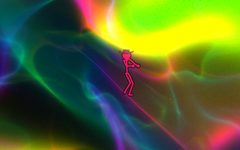
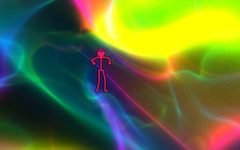
Dancers: a head that turns on its own, partners in the crowd, and a kind of dancing that suits the music
The head is drawn turned by the chest's facing plus a turn of its own: it looks ahead, to one side, or at
whoever is nearest, a figure with a partner looks at the partner, and it lags a body that is spinning.

In the crowd, every so often two neighbours dance together for 8 to 16 beats: they come round to face
each other, and the second does the first's move as in a mirror.

Each kind of dancing has a speed and a fullness of music it suits (DN_FIT). A figure left free keeps most
routines to a kind that suits the music now, and Journey weighs the kinds the same way when it chooses.

Claude-Session: https://claude.ai/code/session_01P6VPR9y6rGkpLBNy8xwDmE

diff --git a/js/dance.js b/js/dance.js
@@ -49,7 +49,7 @@ export const DN_DRIFT=0.3;   /* how fast a dancing figure moves over the floor t
 export const dnU=[new Float32Array(48),new Float32Array(48),new Float32Array(48),new Float32Array(48),new Float32Array(48),new Float32Array(48),new Float32Array(48),new Float32Array(48),new Float32Array(48),new Float32Array(48)]; /* for the shader, four numbers a figure in each (the tenth is its head: the angle it is turned by, and its face, which danceFill packs into the other three): neck and hips; the shoulders; left elbow and hand; right elbow and hand; the hip joints; left knee and ankle; right knee and ankle; the toes; the head's middle, its radius and how brightly the figure shows (0 for none) */
 const A=new Array(MV_N),B=new Array(MV_N),J=new Array(MV_N),flat=new Array(35),SP=[0,0],RM=[0,0,0,0],order=[];
 const crowd=[];              /* the figures: {rt, ri, mv, mir, u0, pmv, pmir, pu0, bl, next, tx, tz, p, b, mem, fa, sp, pfa, a, im, ic, idir, iface, itf, iph, iw}: the routine and how far through it; the move, whether it is faced the other way and the beat it began on; the same for the move before, and how far the figure has gone over from it; the beat to change on; how far the figure has travelled from its place; the pose; the body; where the elbows were; which way it is turned for this move and was for the last; how much it is dancing; and for when it is not, whether it walks, the seconds until it chooses again, which way it walks, the way it faces now and wants to, how far through its steps it is and how much it is walking */
-const st={lead:-1,per:0.5,pk:0.06,pm:0.06,amp:0,asp:1.78,u:0,du:0,pa:0,sure:0,kick:0,snap:0,en:0,hype:0,jump:-1,kind:0,phrase:0}; /* the strongest pulse of the bass and of the mids in the last few seconds; how much the figures are dancing, 0 to 1 (figures newly set up begin with it, so that changing from one overlay of figures to another does not stop the dance); how wide the picture is for 1 tall (danceFill says); the count of beats and this frame's step of it; how much pulse there has been lately; how sure the beat is; the kick as the figures feel it; how much they dance; how long since a drop; how far through a jump (in beats, -1 for none); which overlay they were set up for; how many times the chorus line has changed its dance */
+const st={pairC:8,lvl:0.6,lead:-1,per:0.5,pk:0.06,pm:0.06,amp:0,asp:1.78,u:0,du:0,pa:0,sure:0,kick:0,snap:0,en:0,hype:0,jump:-1,kind:0,phrase:0}; /* the strongest pulse of the bass and of the mids in the last few seconds; how much the figures are dancing, 0 to 1 (figures newly set up begin with it, so that changing from one overlay of figures to another does not stop the dance); how wide the picture is for 1 tall (danceFill says); the count of beats and this frame's step of it; how much pulse there has been lately; how sure the beat is; the kick as the figures feel it; how much they dance; how long since a drop; how far through a jump (in beats, -1 for none); which overlay they were set up for; how many times the chorus line has changed its dance */
 let tick=null,bank=null;
 
 function ease(x){x=Math.max(0,Math.min(1,x));return x*x*(3-2*x);}
@@ -309,6 +309,27 @@ export function makeRoutine(e,rnd,style){
 /* The kind of dancing the figures keep to: a name in MV_STYLES, or "any". Changing it gives every figure a new routine
    at its next move. */
 export let danceStyle="any";
+/* Which kind of dancing suits the music: for each kind, the speed it likes (-1 for a slow beat, about 100 a minute
+   and under, to 1 for a fast one, 150 and over) and how full it likes the music (0 to 1). styleFit gives a kind's
+   chance for a beat lasting per seconds in music level full: about 3 where both suit it, down to 0.3 where neither
+   does. So a fast, full passage brings out the rave and the breaking, and a slow quiet one the groove. */
+export const DN_FIT={groove:[-0.3,0.3],disco:[0,0.5],sixties:[0.2,0.6],hiphop:[-0.4,0.6],party:[0,0.6],world:[-0.2,0.4],rave:[1,0.9],breaking:[0.4,0.9],indian:[0.2,0.6]};
+export function styleFit(name,per,level){
+  var f=DN_FIT[name],t=Math.max(-1,Math.min(1,(0.52-per)/0.14));
+  return f?0.3+3*Math.exp(-((t-f[0])*(t-f[0])/0.5+(level-f[1])*(level-f[1])/0.18)):1;
+}
+/* the same for the music as it is now, for Journey when it chooses a kind; 1 for every kind while there is no sure beat */
+export function danceFit(name){return st.sure>0.5?styleFit(name,st.per,st.lvl):1;}
+/* The kind a new routine keeps to: the one that has been asked for; or, left free, most often a kind that suits the
+   music now (chosen by styleFit), and otherwise any, so that a figure still mixes kinds some of the time. */
+function routineStyle(){
+  var ks,i,t=0,r;
+  if(danceStyle!=="any")return danceStyle;
+  if(st.sure<0.5||Math.random()<0.35)return "";
+  ks=Object.keys(MV_STYLES);for(i=0;i<ks.length;i++)t+=styleFit(ks[i],st.per,st.lvl);
+  r=Math.random()*t;for(i=0;i<ks.length;i++){r-=styleFit(ks[i],st.per,st.lvl);if(r<0)return ks[i];}
+  return "";
+}
 export function setDanceStyle(s){
   s=MV_STYLES[s]?s:"any";if(s===danceStyle)return;
   danceStyle=s;for(var i=0;i<crowd.length;i++)crowd[i].fresh=true;
@@ -452,11 +473,11 @@ function homes(kind,n){
 }
 function setUp(kind){
   var i,n=count(kind),now=Math.floor(st.u),r,h=homes(kind,n),d,c0=Math.floor(3*Math.random()),l0=Math.floor(DN_LOOKS*Math.random()),ch;
-  crowd.length=0;st.kind=kind;st.phrase=0;
+  crowd.length=0;st.kind=kind;st.phrase=0;st.pairC=6+8*Math.random();
   for(i=0;i<n;i++){
     ch=DN_MANNERS[kind===2?0:(i+c0)%3]; /* a third of a crowd each way, and the dancer alone any of the three */
-    r=kind===2&&i?crowd[0].rt:makeRoutine(st.en*ch.en,Math.random,danceStyle);
-    d={ch:ch,sd:Math.random()<0.5?-1:1,mo:0,bk:0,ex:pickFace(ch,Math.random()),et:3+7*Math.random(),fw:0.34,fc:0.5,fl:0,fh:0,fo:0,rel:[0,0,0,0,0,0,0,0,0,0,0,0],dw:0,go:false,a:st.amp,g:1,ph:0,gp:0,as:1,wx:0,wz:0,vx:0,vz:0,fa:kind===2?0:(Math.random()-0.5)*1.6,sp:0,pfa:0,im:0,ic:3*Math.random(),ix:0,iz:0,iface:0,itf:(Math.random()-0.5)*3,iph:0,iw:0,
+    r=kind===2&&i?crowd[0].rt:makeRoutine(st.en*ch.en,Math.random,routineStyle());
+    d={ch:ch,pw:-1,pu:0,hy:0,hk:0,hyR:0,hyc:2*Math.random(),pch:0,wv:0,sd:Math.random()<0.5?-1:1,mo:0,bk:0,ex:pickFace(ch,Math.random()),et:3+7*Math.random(),fw:0.34,fc:0.5,fl:0,fh:0,fo:0,rel:[0,0,0,0,0,0,0,0,0,0,0,0],dw:0,go:false,a:st.amp,g:1,ph:0,gp:0,as:1,wx:0,wz:0,vx:0,vz:0,fa:kind===2?0:(Math.random()-0.5)*1.6,sp:0,pfa:0,im:0,ic:3*Math.random(),ix:0,iz:0,iface:0,itf:(Math.random()-0.5)*3,iph:0,iw:0,
       hf:h[i][0],hz:h[i][1],hc:h[i][2],id:(3*i+l0)%DN_LOOKS+DN_LOOKS*i, /* its number says which head it has (what is left over on dividing by DN_LOOKS: neighbours differ) and gives it a colour of its own */
       rt:r,ri:0,mv:r.mv[0],mir:kind!==2&&r.mir[0],u0:now,pmv:0,pmir:false,pu0:now,bl:1,next:now+4+(kind===3?i%5:0),tx:0,tz:0,p:MV_REST.slice(),b:danceBody(MV_REST,[]),mem:[0,0,0,0,0,0]};
     if(kind===3){d.hf+=(Math.random()-0.5)*0.25;d.hz+=(Math.random()-0.5)*0.5;} /* a crowd does not stand in ranks */
@@ -471,10 +492,15 @@ function setUp(kind){
 function nextMove(d,i,now,e,fresh){
   var n,k,m;
   d.pmv=d.mv;d.pmir=d.mir;d.pu0=d.u0;d.u0=now;d.bl=0;d.pfa=d.fa;
+  if(d.pw>=0&&d.pw<i&&crowd[d.pw]&&crowd[d.pw].pw===i){ /* dancing with a partner: the second of the two takes the first's move, turned the other way, as in a mirror */
+    k=crowd[d.pw];d.rt=k.rt;d.ri=k.ri;d.mv=k.mv;d.mir=!k.mir;d.next=k.next;d.g=k.g;d.ph=k.ph;d.gp=k.gp;d.as=k.as;d.go=k.go;d.sp=0;
+    spot(d,front(st.kind,st.asp),false,SP);d.wx=d.tx;d.wz=d.tz;
+    return;
+  }
   if(st.kind===2&&i>0){d.rt=crowd[0].rt;d.ri=crowd[0].ri;}
   else{
     d.ri++;n=d.rt.mv.length;
-    if(fresh||d.ri>=2*n||(d.ri%n===0&&moveTier(e*d.ch.en)!==d.rt.tier)){d.rt=makeRoutine(e*d.ch.en,Math.random,danceStyle);d.ri=0;}
+    if(fresh||d.ri>=2*n||(d.ri%n===0&&moveTier(e*d.ch.en)!==d.rt.tier)){d.rt=makeRoutine(e*d.ch.en,Math.random,routineStyle());d.ri=0;}
     if(st.kind===2&&d.ri%d.rt.mv.length===0)st.phrase++;
   }
   k=d.ri%d.rt.mv.length;d.mv=d.rt.mv[k];m=MOVES[d.mv];
@@ -519,6 +545,21 @@ export function danceStep(dt,bt,mp,level,drop,changed,slow,time,real,on){
   if(st.jump>=0){st.jump+=du;if(st.jump>DN_JUMP)st.jump=-1;}
   st.snap+=(mp-st.snap)*Math.min(1,dt*(mp>st.snap?30:9)); /* and the mids, which the arms flick to */
   beat=0.3*(0.5+0.5*Math.cos(6.2831853*st.u))+2.4*st.kick; /* how far into the beat's give the figures are: a little by the count, mostly by the kick itself */
+  st.lvl=level;
+  /* In a crowd, every so often two who stand near each other dance together for eight to sixteen beats: they turn to
+     face each other, and from the next move the second does what the first does, as in a mirror. */
+  if(st.kind===3&&amp>0.6){
+    st.pairC-=dt;
+    if(st.pairC<=0){
+      st.pairC=3;i=Math.floor(Math.random()*crowd.length);d=crowd[i];k=-1;w=1.7;
+      if(d&&d.pw<0&&d.a>0.9)for(j=0;j<crowd.length;j++)if(j!==i&&crowd[j].pw<0&&crowd[j].a>0.9){v=Math.hypot(homeX(crowd[j],F)+crowd[j].tx-homeX(d,F)-d.tx,crowd[j].hz+crowd[j].tz-d.hz-d.tz);if(v<w){w=v;k=j;}}
+      if(k>=0){
+        j=Math.min(i,k);k=Math.max(i,k);v=now+8+4*Math.floor(3*Math.random());
+        crowd[j].pw=k;crowd[k].pw=j;crowd[j].pu=crowd[k].pu=v;crowd[k].next=crowd[j].next;
+        st.pairC=10+14*Math.random();
+      }
+    }
+  }
   for(i=0;i<crowd.length;i++){
     d=crowd[i];
     /* the next move of the routine when the one in hand has had its beats (four at least), a new routine at once after
@@ -529,7 +570,10 @@ export function danceStep(dt,bt,mp,level,drop,changed,slow,time,real,on){
     m=MOVES[d.mv];
     movePose(m,st.u-d.u0,A);A[2]+=moveBob(m)*beat*d.ch.bob;A[9]+=1.5*moveBob(m)*st.kick*d.ch.bob;A[11]+=6*moveBob(m)*st.kick*d.ch.bob;
     if(d.mir)flipPose(A);
-    if(st.kind===2&&i>0)d.fa=crowd[0].fa;else if(d.go)d.fa-=Math.max(-1.2*du,Math.min(1.2*du,d.fa));else d.fa+=d.sp*du*d.a;
+    if(d.pw>=0&&(st.u>=d.pu||amp<0.3||!crowd[d.pw]||crowd[d.pw].pw!==i)){d.pw=-1;d.fresh=true;} /* the dance together is over: each goes back to a routine of its own */
+    if(st.kind===2&&i>0)d.fa=crowd[0].fa;
+    else if(d.pw>=0){k=crowd[d.pw];w=turnTo(d.fa,Math.atan2(homeX(k,F)+k.tx-homeX(d,F)-d.tx,d.hz+d.tz-k.hz-k.tz)-A[4]);d.fa+=Math.max(-1.2*du,Math.min(1.2*du,w));} /* it comes round to face its partner */
+    else if(d.go)d.fa-=Math.max(-1.2*du,Math.min(1.2*du,d.fa));else d.fa+=d.sp*du*d.a;
     A[4]+=d.fa;
     groove(A,st.u,d,st.kick,st.snap);
     if(d.bl<1){
@@ -584,6 +628,21 @@ export function danceStep(dt,bt,mp,level,drop,changed,slow,time,real,on){
     /* the face: the mouth opens with the kick, the more the livelier the figure, and the eyes shut for a moment every few seconds */
     w=Math.min(1,st.kick*1.6)*d.a*Math.min(1,0.25+0.6*d.ch.bob);d.mo+=(w-d.mo)*Math.min(1,dt*(w>d.mo?20:6));
     w=time*0.21+0.37*d.id;w=w-Math.floor(w)<0.035?1:0;d.bk+=(w-d.bk)*Math.min(1,dt*25);
+    /* The head's own turn on the neck (d.hy, which the shader adds to the way the chest faces). Every few seconds it
+       chooses again: straight ahead half the time, off to one side, or at whoever is nearest; a figure with a
+       partner looks at the partner. And the head lags a little behind a body that is turning, as a spinning
+       dancer's does. It is gone toward at five a second, so it never snaps. */
+    w=d.p[4]+d.p[5]+d.p[7];v=dt>0?turnTo(d.pch,w)/dt:0;d.pch=w;d.wv+=(v-d.wv)*Math.min(1,dt*6);
+    d.hyc-=dt;
+    if(d.hyc<=0){d.hyc=1.5+4*Math.random();v=Math.random();d.hk=v<0.5?0:v<0.75?1:2;d.hyR=(Math.random()-0.5)*1.4;}
+    v=0;
+    if(d.pw>=0||d.hk===2){
+      k=d.pw>=0?crowd[d.pw]:null;
+      if(!k){n=1e9;for(j=0;j<crowd.length;j++)if(j!==i){dx=homeX(crowd[j],F)+crowd[j].tx-homeX(d,F)-d.tx;dz=crowd[j].hz+crowd[j].tz-d.hz-d.tz;if(dx*dx+dz*dz<n){n=dx*dx+dz*dz;k=crowd[j];}}}
+      if(k)v=Math.max(-1.1,Math.min(1.1,turnTo(w,Math.atan2(homeX(k,F)+k.tx-homeX(d,F)-d.tx,d.hz+d.tz-k.hz-k.tz))));
+    }else if(d.hk===1)v=d.hyR;
+    v+=Math.max(-0.5,Math.min(0.5,-0.15*d.wv));
+    d.hy+=(v*d.a-d.hy)*Math.min(1,dt*5);
     /* and the face it is making: a new one every few seconds, gone over to in about a third of a second */
     d.et-=dt;if(d.et<=0){d.ex=pickFace(d.ch,Math.random());d.et=4+8*Math.random();}
     m=DN_FACES[d.ex];k=Math.min(1,dt*5);
@@ -630,10 +689,10 @@ export function danceFill(kind,asp){
     d=order[i];place(F,homeX(d,F)+d.tx,d.hz+d.tz,q);danceFlat(d.b,flat);
     k=q[0];
     for(j=0;j<16;j++){dnU[j>>1][4*i+2*(j&1)]=k+q[2]*flat[2*j];dnU[j>>1][4*i+2*(j&1)+1]=q[1]+q[2]*flat[2*j+1];}
-    /* the head: the angle the chest faces by, which the head is drawn turned by; then the face, two numbers to one
+    /* the head: the angle the chest faces by and the head's own turn on it, which the head is drawn turned by; then the face, two numbers to one
        (the first in 255 steps as the whole part, the second as what is over): how far the mouth is open and the
        lids are down; the mouth's half width (twice it) and how far its corners turn up; and how far the eyes are arches */
-    j=d.p[4]+d.p[5]+d.p[7];dnU[9][4*i]=j-6.2831853*Math.round(j/6.2831853);
+    j=d.p[4]+d.p[5]+d.p[7]+d.hy;dnU[9][4*i]=j-6.2831853*Math.round(j/6.2831853);
     dnU[9][4*i+1]=Math.floor(255*Math.max(0,Math.min(1,d.fo)))+Math.min(0.99,Math.max(d.fl,d.bk)*(1-d.fh));
     dnU[9][4*i+2]=Math.floor(255*Math.max(0,Math.min(1,2*d.fw)))+Math.max(0,Math.min(0.99,d.fc));dnU[9][4*i+3]=d.fh;
     dnU[8][4*i]=k+q[2]*flat[32];dnU[8][4*i+1]=q[1]+q[2]*flat[33];dnU[8][4*i+2]=q[2]*DN_HEAD*flat[34];dnU[8][4*i+3]=d.id+0.5*q[3];
@@ -647,5 +706,5 @@ tick=makeBeatClock();bank=makeBeatBank();
 }
 
 /* for the test tools and the browser console: every name in this file; the ones that can change have a getter and a setter */
-export const __dbg={DN_MAX, DN_MANNERS, DN_LOOKS, DN_FACES, pickFace, DN_HIP, DN_SPINE, DN_HEAD, DN_NECK, DN_SHO, DN_HIPW, DN_ARM, DN_FORE, DN_CLEAR, DN_BACK, DN_LEG, DN_FOOT, DN_STANCE, DN_NEAR, DN_EYE, DN_FAST, DN_SLOW, DN_SIZE, DN_DEEP, DN_UP, DN_FLOOR, DN_DRIFT, DN_FAINT, DN_RATE, DN_SURE0, DN_SURE1, DN_FAINT2, makeBeatBank, get danceBank(){return bank},set danceBank(v){bank=v}, danceSays, DN_QUICK, DN_TOP, DN_JUMP, DN_STEP, DN_WALK, DN_TURN, dnU, danceBody, danceFlat, makeBeatClock, pickMove, moveTier, makeRoutine, setDanceStyle, get danceStyle(){return danceStyle},
+export const __dbg={DN_FIT, styleFit, danceFit, DN_MAX, DN_MANNERS, DN_LOOKS, DN_FACES, pickFace, DN_HIP, DN_SPINE, DN_HEAD, DN_NECK, DN_SHO, DN_HIPW, DN_ARM, DN_FORE, DN_CLEAR, DN_BACK, DN_LEG, DN_FOOT, DN_STANCE, DN_NEAR, DN_EYE, DN_FAST, DN_SLOW, DN_SIZE, DN_DEEP, DN_UP, DN_FLOOR, DN_DRIFT, DN_FAINT, DN_RATE, DN_SURE0, DN_SURE1, DN_FAINT2, makeBeatBank, get danceBank(){return bank},set danceBank(v){bank=v}, danceSays, DN_QUICK, DN_TOP, DN_JUMP, DN_STEP, DN_WALK, DN_TURN, dnU, danceBody, danceFlat, makeBeatClock, pickMove, moveTier, makeRoutine, setDanceStyle, get danceStyle(){return danceStyle},
   danceKind, danceStep, stepDance, danceSpots, danceFill, crowd, danceSt:st, get danceTick(){return tick},set danceTick(v){tick=v}};

diff --git a/js/journey.js b/js/journey.js
@@ -1,5 +1,5 @@
 /* Journey: templates and sets, their storage, the clocks that say when to change something, and the autopilot. */
-import { danceStyle, setDanceStyle } from "./dance.js";
+import { danceFit, danceStyle, setDanceStyle } from "./dance.js";
 import { MV_STYLES } from "./moves.js";
 import { cam, norm } from "./camera.js";
 import { requestWorld, scene, selJT, setLook, setMirrors, setMotion, setOverlay, setInside, setMix, setPacking, setPulse } from "./choose.js";
@@ -123,7 +123,7 @@ export function jPick(k,cfg,cur,pool,not){
   if(!others.length)return pool[0];
   if(not){fresh=others.filter(function(x){return x!==not});if(fresh.length)others=fresh;} /* not is passed over if there is anything else: the world just left */
   return pickWeighted(others,liked,Math.random()); /* an even chance each, unless More like this or Less like this has said otherwise, or the option is one Journey reaches for less (J_SELDOM) */
-  function liked(x){return tasteOf(taste,k,x)*(J_SELDOM[k]&&J_SELDOM[k][x]||1)}
+  function liked(x){return tasteOf(taste,k,x)*(J_SELDOM[k]&&J_SELDOM[k][x]||1)*(k==="dance"?danceFit(x):1)} /* and a kind of dancing by how well it suits the music now (js/dance.js) */
 }
 /* More like this: everything Journey is choosing that is showing now becomes more likely to be chosen again. */
 export function jMore(){

diff --git a/CLAUDE.md b/CLAUDE.md
@@ -84,7 +84,7 @@ The Python tools need `google-chrome` or `chromium` on PATH, or a Chromium that 
 - **Every sampler in the scene shader must be given a texture unit every frame.** One left at the default, unit 0, can name the picture being drawn into, and the chip then refuses the draw.
 - **Hold still averages frames of a scene that must not change.** While `stillN` is not zero the scene shader gets no sound and no clock runs. Anything new that changes the scene from frame to frame must either stop while `still` is true or be added to what `stillAim` compares.
 - **User look input goes through `userLook(dx, dy)`**, not straight into `lookX`/`lookY`. That is how the autopilot knows to stand back while the user steers. The autopilot itself still writes `lookX`/`lookY` directly.
-- **The dancers' joints are worked out in JavaScript (`js/dance.js`) and only drawn by the trails shader.** A move (`js/moves.js`) is a list of poses at given beats; a pose is 28 numbers that give hands and feet as places, sides measured outward, and `danceBody` makes a body in space from it with every bone keeping its length. A move with no `hold` flows through its keys without stopping; give it a `hold` only if it should stop on the beat. The knees' give comes from the bass itself (`st.kick`), not from the move. A new move must begin at beat 0, take 1, 2, 4, 8 or 16 beats, name its poses only by what differs from standing, and show from in front: a limb moved straight toward the viewer hardly shows, so send it to the side as well. Look at it as a row of poses before keeping it. A figure's pose is only ever gone toward (the end of the loop in `danceStep`), never set, a move is never changed while the last change is still crossing over, and elbows swing through `mem`: `tools/unit.mjs` holds every joint under seven figure heights a second. The figures stand on a floor that goes away from the viewer (`place`): nothing may come nearer than its front edge, and `danceFill` hands them to the shader furthest first, which draws each over the ones before. The shader's arrays and loop are written for `DN_MAX` (12) figures, 120 uniform vectors (ten to a figure: the tenth is the face); change the three together. A figure keeps a manner (`DN_MANNERS`: steady, lively, or smooth, which glides and spins) for as long as it is on the floor, and its number (`d.id`) tells the shader which of `DN_LOOKS` heads it has; the head's hair, hat and face are drawn only by the shader, in the head's own frame, and fade out on a head a few dots across. Nothing on a head is placed on the picture: what lies on the head (hair over the scalp, a fringe, a band, the face) is said in the head's own frame (`H` for the shell of hair, `F` for the face: across, up, toward the way it looks), and what stands off it is placed by the sine and cosine of `uD9.x` and put in `dq` while it is behind the head. After changing a head, run `python3 tools/heads.py out` and `python3 tools/heads.py out 0.4` and look at every head at all eight turns, large: the face and the hair's edge must keep their places against each other, nothing on the far side may show through the head, and nothing may lie over the eyes. Do not judge a head from a render of the whole app: it is too small there, and a new face is a row in `DN_FACES`, eased to number by number, never switched. Journey chooses the chorus line seldom (`J_SELDOM` in `js/journey.js`). The figures dance only while the beat is `sure`: four clocks (`makeBeatBank`), each on one part of the spectrum's onsets from `listen.js`, because the beat is as often in the hi-hats as in the bass; do not go back to judging the bass's hits one at a time. Any change to the clock must keep the rhythm tests in `tools/unit.mjs`; otherwise they wait or walk (`idle`), and anything new they do without a beat belongs there, turning no faster than `DN_TURN`. The moves are chosen by chance, so the figures stop under Hold still and are left out while `lapOn()`.
+- **The dancers' joints are worked out in JavaScript (`js/dance.js`) and only drawn by the trails shader.** A move (`js/moves.js`) is a list of poses at given beats; a pose is 28 numbers that give hands and feet as places, sides measured outward, and `danceBody` makes a body in space from it with every bone keeping its length. A move with no `hold` flows through its keys without stopping; give it a `hold` only if it should stop on the beat. The knees' give comes from the bass itself (`st.kick`), not from the move. A new move must begin at beat 0, take 1, 2, 4, 8 or 16 beats, name its poses only by what differs from standing, and show from in front: a limb moved straight toward the viewer hardly shows, so send it to the side as well. Look at it as a row of poses before keeping it. A figure's pose is only ever gone toward (the end of the loop in `danceStep`), never set, a move is never changed while the last change is still crossing over, and elbows swing through `mem`: `tools/unit.mjs` holds every joint under seven figure heights a second. The figures stand on a floor that goes away from the viewer (`place`): nothing may come nearer than its front edge, and `danceFill` hands them to the shader furthest first, which draws each over the ones before. The shader's arrays and loop are written for `DN_MAX` (12) figures, 120 uniform vectors (ten to a figure: the tenth is the face); change the three together. A figure keeps a manner (`DN_MANNERS`: steady, lively, or smooth, which glides and spins) for as long as it is on the floor, and its number (`d.id`) tells the shader which of `DN_LOOKS` heads it has; the head's hair, hat and face are drawn only by the shader, in the head's own frame, and fade out on a head a few dots across. Nothing on a head is placed on the picture: what lies on the head (hair over the scalp, a fringe, a band, the face) is said in the head's own frame (`H` for the shell of hair, `F` for the face: across, up, toward the way it looks), and what stands off it is placed by the sine and cosine of `uD9.x` and put in `dq` while it is behind the head. After changing a head, run `python3 tools/heads.py out` and `python3 tools/heads.py out 0.4` and look at every head at all eight turns, large: the face and the hair's edge must keep their places against each other, nothing on the far side may show through the head, and nothing may lie over the eyes. Do not judge a head from a render of the whole app: it is too small there, and a new face is a row in `DN_FACES`, eased to number by number, never switched. Journey chooses the chorus line seldom (`J_SELDOM` in `js/journey.js`). A figure's head has a turn of its own (`d.hy`, eased, never set); two of a crowd may be partners (`d.pw`, each the other's, the later in the list following the earlier in `nextMove`); and a new kind of dancing in `MV_STYLES` needs its row in `DN_FIT`, which `tools/unit.mjs` checks. The figures dance only while the beat is `sure`: four clocks (`makeBeatBank`), each on one part of the spectrum's onsets from `listen.js`, because the beat is as often in the hi-hats as in the bass; do not go back to judging the bass's hits one at a time. Any change to the clock must keep the rhythm tests in `tools/unit.mjs`; otherwise they wait or walk (`idle`), and anything new they do without a beat belongs there, turning no faster than `DN_TURN`. The moves are chosen by chance, so the figures stop under Hold still and are left out while `lapOn()`.
 - **The eye (`js/eye.js`) is the last pass, over the finished picture, and nothing is drawn after it or over it.** The world, the land, the overlays and the filters show only in its pupil: a new effect belongs in the passes before it, never in `FS_EYE`. What changes in it over time comes from `clock` and the frame's sound; the blink, the gaze and the pupil are stepped in `stepEye`, which stops under Hold still and holds them fixed while `lapOn()`. Noise that goes round the iris or the white must be `vn`/`fbm` with a whole number for `per`, or a seam shows on the left. Beyond the lids is a surface of pores, not skin (`surf`): a pore with its rim must stay within 0.62 of a square of its middle, and must never have a radius of nothing, or the squares' edges show; the pores' clock is `ey.por`, stepped with the rest. The blink's times are in `BLINK_*` and `tools/unit.mjs` holds how fast the lid may move: do not make it quicker. How near it is seen from is `eyeRadius`, and at the last step the iris must cover every corner of the picture (`tools/unit.mjs` checks wide and tall); the pupil as drawn goes through `eyePupil`. It is flat on the screen, so it is off in the VR viewer. Only `blinkShut` changes the world from it, and only when nothing else has the world in hand.
 - **A panel that scrolls keeps its title and Close button at the top** (`position:sticky` on `.advHead` and `.panHead`). A new panel must do the same.
 - **A control belongs under a heading in the panel** (`#panel` in `index.html`, a plain child of a `.secBody`), not in the bar: the bar is for what is used all the time. A screen that is a task of its own (Compose) must hold every control that task needs, shown only when it can be used, so that nobody has to go elsewhere to find the next step. A chooser shows its things by name (`pickSort`).

diff --git a/docs/ARCHITECTURE.md b/docs/ARCHITECTURE.md
@@ -538,6 +538,9 @@ Drawn into the feedback buffer after the composite, so the motion smears them. S
 **The dancers** (`js/dance.js`, `js/moves.js`; `uOv` 8 to 10: Dancer, Chorus line, Dance floor, marked `dance: 1`, `2`, `3` in `OVERLAYS`). Stick figures that dance to the music: one, with a deep floor to itself; four doing the same dance together; a crowd of eight to twelve (chosen each time the overlay is), each with its own. They are meant to move as a person in a suit with lines down the limbs would. Nothing about them is in the sound texture: JavaScript works out every joint and the shader only draws lines.
 - *Manners.* A figure keeps one of three for as long as it is on the floor (`DN_MANNERS`; a third of a crowd each, the dancer alone any, the chorus line all steady, since they dance as one). **Steady** is the figure as it always was. **Lively** takes the music to be 1.4 times as full as it is, so chooses livelier moves, sways and hits with its arms a quarter to a third more, gives half as much again to the beat with its knees and head, and follows a move more sharply. **Smooth** takes the music as 0.72 as full, hits half as hard, hardly bobs, rounds every corner of a move (its pose follows at 8 a second, not 13), sweeps its hands in slow wide curves, moves over the floor at 2.2 times `DN_DRIFT` and chooses a new place as soon as it reaches one, so it never stops gliding, and spins on the spot through every move at 0.3 to 0.6 radians a beat, the same way for most of them. All of it is inside the room a figure already had, and `tools/unit.mjs` still holds every joint under seven heights a second.
 - *Heads.* Each figure's number (`d.id`) is its place in the crowd times 16 plus which of the sixteen heads it has (`DN_LOOKS`), neighbours differing: headphones, spikes, long hair, a top hat, a cap whose peak points the way the head is turned, a bun, a round mass of curls, a crest, a ponytail, two bunches, a bob, a woolly hat with a bobble, a wide hat, a party hat, a crown, and two bobbles on springs. The shader takes the number's remainder on dividing by 16 and draws the head's details in the head's own frame (across, and up along the line from the neck, in head radii), in lines a quarter as wide as the body's and in another of the palette's colours. The hair, the hats and the face turn with the head as one, because all of them are placed on the head and none on the picture. `uD9.x` is the angle the chest faces by (0 toward the viewer). The head is a ball: for what lies on it, the place in the picture is taken back to the place on the ball it shows (`z = sqrt(1 - x^2 - y^2)`) and turned back by the angle, giving `F` and `H`, the place on the head itself (across, up, toward the way the face looks); past the head's edge `H` is the nearest place on the edge, and hair is taken to lie a tenth of the head thick, so it shows that far past the edge. Hair and face use the same ball: a shell of hair larger than the head was tried, and from a three-quarter view it lay over the far eye. Hair that covers the head says which part it covers in the head's own terms: `scalp` (above a flat cut that slopes from the brow, clear of the eyes, down behind the ears to the nape) under the spikes, the bun, the ponytail and the bunches; all but the face's opening (`win`: within 0.72 across on the front half, below the fringe) for the bob, the long hair and the curls; a strip down the middle for the crest; `band` (within 0.09 of the cut through both ears, over the top) for the headphones and the bobbles. The long hair also hangs as a curtain from the back half of the head, as wide as that half is seen to be: behind the body from in front but for a lock before each near shoulder, to one side from the side, right across from behind. The curls are a ball of hair about the head, set back, open only at the face. A part on the far side of the head is drawn only past the head's edge, and the headphones' far cup not at all. The eyes and mouth sit at their own places on `F` and fade as `F.z` nears nothing, so they go across and narrow exactly as the hair's edge does. (They were first drawn flat with the face slid across by 0.7 of the sine while a fringe or a bob stayed where it was: the face moved under the hair.) Parts that stand off the head are put where their angle round it brings them, the sine of that angle across: the cap is a filled crown with a flat oval peak joined to its lower edge, a band across the brow from in front, long from the side and hidden from behind; a ponytail hangs behind and is seen whole from the back; a bob's hair comes right down the back of the head; a party hat sits to one side and goes round; a crown's points go round; the two bobbles cross; the headphones' cups come to the middle as the head turns side on and their band narrows to a line; the six strands of long hair go round from the sides to the back, so a figure seen from behind has them over its head; the bun is behind the top of the head and the top hat has a buckle at the front; the crest is a few spikes close together from in front and a fan from the side; spikes and curls go round. A part behind the head is drawn only outside its disc (`dq`). A head turned toward the viewer has two eyes and a mouth, dark in the lit head, moved across and narrowed as it turns. **Faces** (`DN_FACES`): smile, grin, bliss (eyes shut and smiling: arches, not dots), pursed (a small round mouth), cool (lids half down, mouth nearly straight) and lost (eyes shut, lips pursed). A face is five numbers: the mouth's half width, how far its corners turn up, how far it is open, how far the lids are down, how far the eyes are arches. A figure takes a new face every four to twelve seconds (`pickFace`: lively figures grin most, smooth ones shut their eyes most) and goes over to it in about a third of a second, number by number, so nothing jumps. `danceFill` packs them two to a number for the shader (the first in 255 steps as the whole part, the second as what is over). The mouth opens with the kick, more on a lively figure and hardly at all when pursed; the eyes shut for a moment every five seconds or so. On a head under about six dots across the details fade out, and under two and a half they are not worked out at all, so the far figures of a crowd cost what they did. Per dot it is one test against the head's place and, near a head, one head's worth of arithmetic: little beside the sixteen lines of the body.
+- *The head's own turn* (`d.hy`). The head is drawn turned by the way the chest faces plus `d.hy`, which each figure eases toward a choice it makes again every 1.5 to 5.5 seconds: straight ahead (half the time), up to 0.7 radians to one side, or at whoever is nearest on the floor (at most 1.1 round). A figure with a partner looks at the partner. Added to that, the head lags a body that is turning by 0.15 seconds' worth of the turn, at most half a radian, so a spinning figure's face comes round after its body. It is only a number for the shader: no joint moves.
+- *Partners.* In the crowd, every 10 to 24 seconds while they dance, one figure and the nearest other within 1.7 heights (neither already paired) dance together for 8, 12 or 16 beats. Both come round to face each other at 1.2 radians a beat, and from the next move the second (the later in the list) does the first's move turned the other way, as in a mirror (`nextMove`), changing when the first changes. When it is over each takes a new routine of its own.
+- *The kind of dancing follows the music.* `DN_FIT` gives each of the nine kinds the speed it likes (-1 for a beat of about 100 a minute and under, 1 for 150 and over) and how full it likes the music; `styleFit` turns the beat's length and the level into a chance from 0.3 to about 3. A figure left free (Dance style any) keeps two routines in three to a kind chosen by that chance, so a fast full passage brings out rave and breaking, and a slow quiet one groove and the slower world dances. Where Journey chooses the Dance style, it weighs the kinds the same way (`danceFit` in `jPick`), on top of the user's likes. With no sure beat every kind has an even chance.
 - *Journey and the chorus line.* `J_SELDOM` in `js/journey.js` multiplies the chorus line's chance by 0.15 wherever Journey chooses an overlay, on top of the user's own likes: from either other overlay of dancers it is taken about one time in eight.
 
 - *Keeping time.* `makeBeatClock` is given the bass's pulse each frame. A hit is the pulse rising 0.15 above where it had sunk to (and above 0.2, and at least 0.24 s after the last). The time between two hits is doubled or halved into `DN_FAST` to `DN_SLOW` (0.36 to 0.72 s, 166 to 83 beats a minute) and taken as the beat's length when within 18% of what is held (eased in by 0.3), or after three in a row that are not. The count `u` runs on at one a beat; a hit within 0.3 of a whole count pulls the count three quarters of the way to it, spread over the next frames, and three hits in a row that fall between the counts move the count to them. The count never goes backward. It is kept whatever overlay is chosen, so figures chosen later are in time at once. A tapped tempo is followed the same way, since it gives the same pulse.

diff --git a/README.md b/README.md
@@ -186,7 +186,7 @@ After those come **Journey**, **Hold still**, **Compose** (on a computer) and **
 |---|---|
 | Feedback motion | none, Melt, Vortex, Tunnel, Implode, Ripple, Drift. Each one smears the previous frame in a different way. |
 | Filter | none, Echo, Neon, Solar, Negative, Poster, Mosaic, Liquid, Prism, Quad, Tiles, Bulge, Twirl, Thermal, CRT, Halftone, Contour, Noir, Comic, Two-tone, Tape, Streaks, Emboss, Glass, Airbrush. The six before Airbrush were made with video in mind. **Airbrush** takes nearly all the colour out and leaves the light: cool in the shadows, warm in the highlights, as if the picture were sprayed in greys. |
-| Overlay | none, Ring, Scope, Spectrum, Spokes, Rings, Spiral, Orbit. These draw the sound on top of the picture. **Dancer**, **Chorus line** and **Dance floor** are stick figures that dance to the music: one, who goes all over a floor that runs away from you, growing smaller with distance and never larger than at its front edge; four doing the same dance together; a crowd of eight to twelve standing at different depths, the further ones smaller and drawn behind the nearer, each with a dance of its own. Every figure has a manner it keeps (steady; lively, which picks the wilder moves and hits them hard; or smooth, which glides about the floor and spins) and a head of its own, one of sixteen: headphones, spikes, long hair, a top hat, a cap, a bun, curls, a crest, a ponytail, bunches, a bob, a woolly hat, a wide hat, a party hat, a crown or bobbles on springs, drawn in thin lines, which turns with the head as the figure turns. Their faces change every few seconds: a smile, a grin, eyes shut and smiling, pursed lips, half-closed lids, or eyes shut and lost in the music; the eyes blink and the mouth opens on the beat. Journey chooses the chorus line far less often than the other two. They are drawn as a person's body would look in a suit of lines, with shoulders, hips, hands and feet, and have 268 named moves in nine kinds of dancing (groove, disco, sixties, hip hop, party, world, rave, breaking and Indian), among them the step touch, the twist, the mashed potato, the hand jive, the macarena, Y M C A, the time warp, the electric slide, the moonwalk, the running man, the sprinkler, the floss, the dab, the can-can and a turn of Riverdance; for a rave, the T-step, cutting shapes, big box little box, hakken, glowsticks and poi; from breaking, top rock steps, the six step, the coffee grinder, CCs, sweeps and freezes; and from India, bhangra, garba and dandiya, the thumka, a kathak spin, and bharatanatyam's half-sitting steps. They keep time with the beat, choose livelier moves as the music fills, dance only to a steady beat, which they find in whichever part of the sound has it (the kick drum, the claps or the hi-hats): while the music is quiet, when there is none, or when there is sound without a beat (someone talking before a song starts, say) they stand about shifting their feet or walk to and fro, and go back to their places when the beat comes, face any way and not only toward you, give at the knees on each kick of the bass, dance a routine of three to ten moves that go together and come back to it before making another, take a new routine when the sound changes greatly, sway at the hips, shift their weight and shuffle their feet whatever the move, hit with their arms on the kick, never do a move quite the same way twice, move about the floor and turn slowly on the spot as they dance, so that they are seen from every side (the moonwalk glides backward), and all jump when a drop lands. With **Tap tempo** they dance to your taps. With **Stats** on, a line says what they hear: how much they are dancing, how sure the beat is, and whether there is sound. They stay as they are in **Hold still** and are not drawn while a loop is flown. |
+| Overlay | none, Ring, Scope, Spectrum, Spokes, Rings, Spiral, Orbit. These draw the sound on top of the picture. **Dancer**, **Chorus line** and **Dance floor** are stick figures that dance to the music: one, who goes all over a floor that runs away from you, growing smaller with distance and never larger than at its front edge; four doing the same dance together; a crowd of eight to twelve standing at different depths, the further ones smaller and drawn behind the nearer, each with a dance of its own. Every figure has a manner it keeps (steady; lively, which picks the wilder moves and hits them hard; or smooth, which glides about the floor and spins) and a head of its own, one of sixteen: headphones, spikes, long hair, a top hat, a cap, a bun, curls, a crest, a ponytail, bunches, a bob, a woolly hat, a wide hat, a party hat, a crown or bobbles on springs, drawn in thin lines, which turns with the head as the figure turns. Their faces change every few seconds: a smile, a grin, eyes shut and smiling, pursed lips, half-closed lids, or eyes shut and lost in the music; the eyes blink and the mouth opens on the beat. Each head also turns on its own: it looks about, looks at whoever is nearest, and comes round a little after the body in a spin. In the crowd, two neighbours now and then turn to each other and dance the same move as in a mirror for a few bars. The kind of dancing follows the music: fast, full passages bring out rave and breaking, slow quiet ones the groove. Journey chooses the chorus line far less often than the other two. They are drawn as a person's body would look in a suit of lines, with shoulders, hips, hands and feet, and have 268 named moves in nine kinds of dancing (groove, disco, sixties, hip hop, party, world, rave, breaking and Indian), among them the step touch, the twist, the mashed potato, the hand jive, the macarena, Y M C A, the time warp, the electric slide, the moonwalk, the running man, the sprinkler, the floss, the dab, the can-can and a turn of Riverdance; for a rave, the T-step, cutting shapes, big box little box, hakken, glowsticks and poi; from breaking, top rock steps, the six step, the coffee grinder, CCs, sweeps and freezes; and from India, bhangra, garba and dandiya, the thumka, a kathak spin, and bharatanatyam's half-sitting steps. They keep time with the beat, choose livelier moves as the music fills, dance only to a steady beat, which they find in whichever part of the sound has it (the kick drum, the claps or the hi-hats): while the music is quiet, when there is none, or when there is sound without a beat (someone talking before a song starts, say) they stand about shifting their feet or walk to and fro, and go back to their places when the beat comes, face any way and not only toward you, give at the knees on each kick of the bass, dance a routine of three to ten moves that go together and come back to it before making another, take a new routine when the sound changes greatly, sway at the hips, shift their weight and shuffle their feet whatever the move, hit with their arms on the kick, never do a move quite the same way twice, move about the floor and turn slowly on the spot as they dance, so that they are seen from every side (the moonwalk glides backward), and all jump when a drop lands. With **Tap tempo** they dance to your taps. With **Stats** on, a line says what they hear: how much they are dancing, how sure the beat is, and whether there is sound. They stay as they are in **Hold still** and are not drawn while a loop is flown. |
 | Overlay strength | 15%, 30%, 50%, 75% or 100%. |
 | Mirrors | Opens a chooser: off, 3, 4, 6, 8 or 12 segments. The M key steps through them. |
 | FX | Opens a chooser: glow, trails or clean. Sets the base amount of trail and bloom. |
